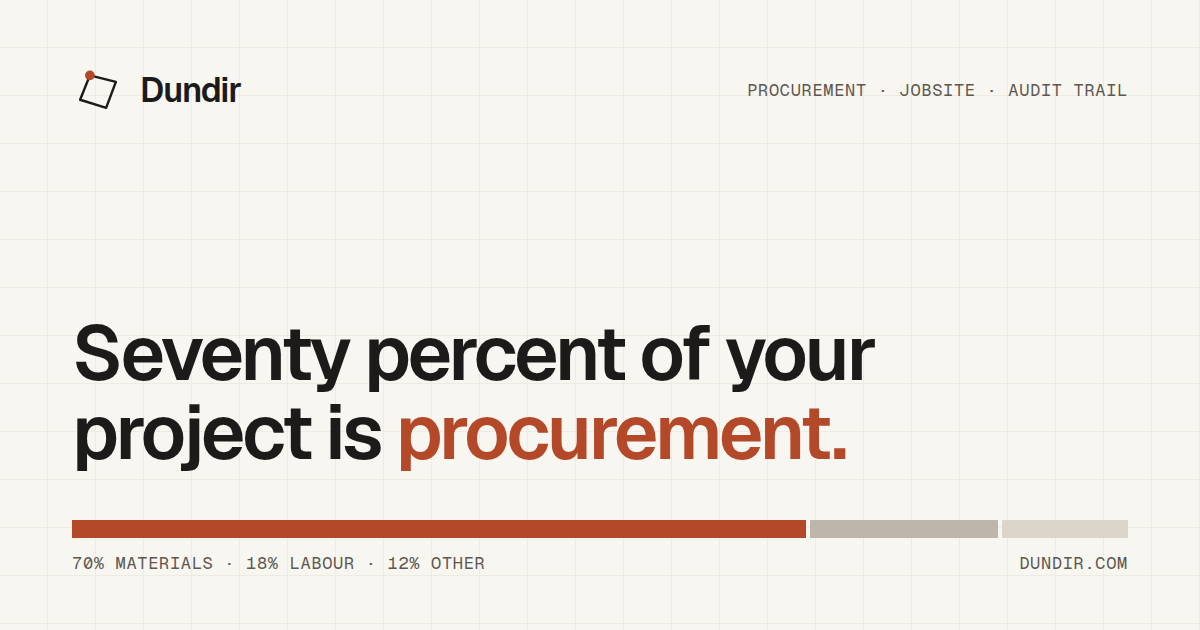
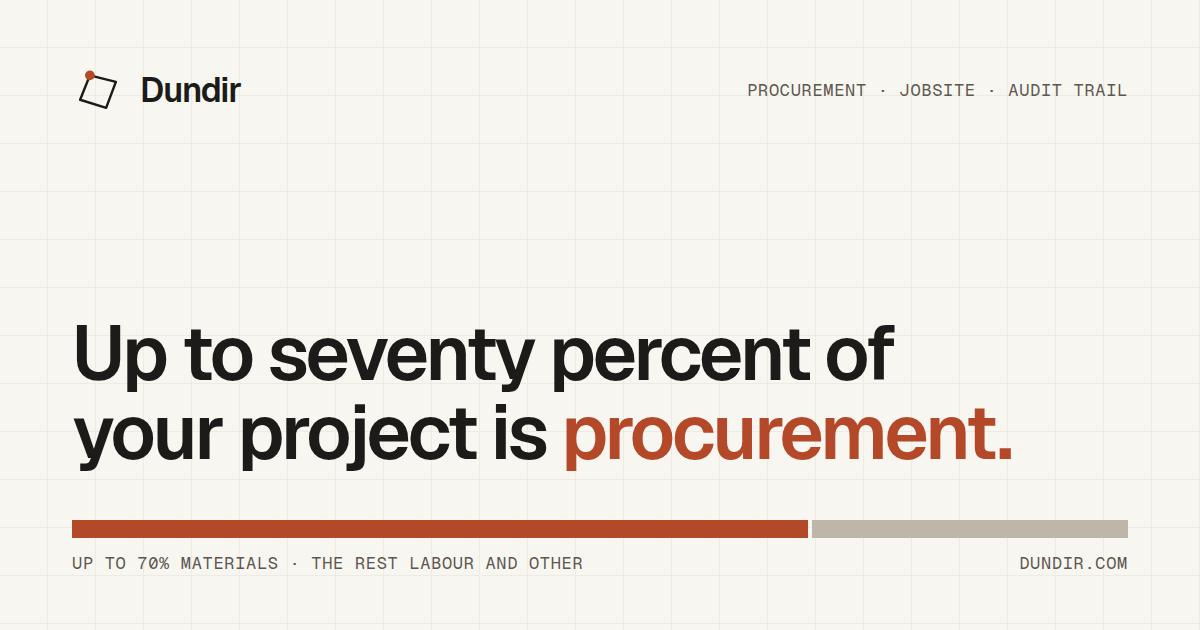
Say up to 70% and drop the unsourced 18/12 split (#33)
* Say up to 70% and drop the unsourced 18/12 split

Donyavi et al. 2024 (in Hamppi 2025) gives materials as up to 70% of project cost and nothing on labour or other costs. The hero headline, the cost stack, the problem lede, the og:image alt and the styleguide specimen now say up to; the stack shows materials against the rest instead of a 70/18/12 split.

* Render the share image with up to 70% and no 18/12 split

Changed region(s): [[0.0617, 0.5127, 0.8633, 0.754], [0.0617, 0.8746, 0.4933, 0.9048], [0.8325, 0.8143, 0.9558, 0.8746]]

diff --git a/assets/css/main.css b/assets/css/main.css
@@ -505,10 +505,8 @@ strong, b { font-weight: 700; }
 }
 .seg--material { background: var(--accent-fill); color: var(--on-accent); flex: 70; }
 .seg--material .seg__nm { color: var(--on-accent-soft); }
-.seg--labour { background: var(--neutral-fill); color: var(--on-neutral); flex: 18; }
-.seg--labour .seg__nm { color: var(--on-neutral-soft); }
-.seg--other { background: var(--rule); color: var(--fg-2); flex: 12; }
-.seg--other .seg__nm { color: var(--fg-3); }
+.seg--rest { background: var(--neutral-fill); color: var(--on-neutral); flex: 30; }
+.seg--rest .seg__nm { color: var(--on-neutral-soft); }
 
 /* page hero for inner pages: no stack, just the claim */
 .page-hero {

diff --git a/layouts/styleguide/single.html b/layouts/styleguide/single.html
@@ -156,7 +156,7 @@
       <div class="spec"><span>measure, Geist Mono 400</span><p class="d-mono">delivery ≤ 14 d &nbsp; budget ≤ € 412.000 &nbsp; 42 u mediaan</p></div>
     </div>
     <div class="axis-demo">
-      <output id="weight-out" style="--wt:600">Seventy percent is procurement.</output>
+      <output id="weight-out" style="--wt:600">Up to seventy percent is procurement.</output>
       <label for="weight">weight <input id="weight" type="range" min="300" max="700" step="10" value="600"> <span id="weight-val">600</span></label>
     </div>
   </div>

diff --git a/layouts/partials/head.html b/layouts/partials/head.html
@@ -44,7 +44,7 @@
   <meta property="og:image" content="https://www.dundir.com/og.png">
   <meta property="og:image:width" content="1200">
   <meta property="og:image:height" content="630">
-  <meta property="og:image:alt" content="Dundir: seventy percent of your project is procurement.">
+  <meta property="og:image:alt" content="Dundir: up to seventy percent of your project is procurement.">
   <meta name="twitter:card" content="summary_large_image">
   <meta property="og:locale" content="{{ .Site.LanguageCode }}">
 

diff --git a/content/_index.de.md b/content/_index.de.md
@@ -1,22 +1,19 @@
 ---
 title: Dundir
 description: KI-gestützte Beschaffungsentscheidungen und Baustellensysteme für die Bauwirtschaft, ausgelegt für den lokalen Betrieb und eine prüfbare Dokumentation. In Entwicklung mit Designpartnern.
-headline: Siebzig Prozent Ihres Projekts sind <span class="cut">Beschaffung.</span>
+headline: Bis zu siebzig Prozent Ihres Projekts sind <span class="cut">Beschaffung.</span>
 sub: Der Einheitspreis ist optimiert. Das ist selten das größte Problem. Wo ist das Material, wann kommt es an, und ist es zertifiziert? Dundir entwickelt einen mathematischen Beschaffungs-Solver und einen digitalen Zwilling der Baustelle.
 stack:
   label: Ein Euro Projektkosten, aufgeteilt
   source: Donyavi et al. 2024, in Hamppi 2025
-  alt: 'Aufteilung der Projektkosten: 70 Prozent Material, 18 Prozent Arbeit, 12 Prozent Sonstiges.'
+  alt: 'Aufteilung der Projektkosten: bis zu 70 Prozent Material, der Rest Arbeit und sonstige Kosten.'
   segments:
   - kind: material
-    pct: 70 %
+    pct: bis zu 70 %
     name: Material · hier rechnet und prüft Dundir
-  - kind: labour
-    pct: 18 %
-    name: Arbeit
-  - kind: other
-    pct: 12 %
-    name: Sonstiges
+  - kind: rest
+    pct: der Rest
+    name: Arbeit und Sonstiges
   footLeft: Beschaffung ist keine Backoffice-Funktion
   footRight: Sie ist die Kostenstruktur
 sections:

diff --git a/content/_index.en.md b/content/_index.en.md
@@ -2,22 +2,19 @@
 aliases: ["/en/"]
 title: Dundir
 description: AI-driven procurement decisions and jobsite systems for construction, designed for local deployment and an auditable trail. In development with design partners.
-headline: Seventy percent of your project is <span class="cut">procurement.</span>
+headline: Up to seventy percent of your project is <span class="cut">procurement.</span>
 sub: The unit price is optimized. That is rarely the biggest issue. Where is the material, when will it arrive, and is it certified? Dundir is building a mathematical procurement solver and a jobsite digital twin.
 stack:
   label: One euro of project cost, divided
   source: Donyavi et al. 2024, in Hamppi 2025
-  alt: 'Project cost split: 70 percent materials, 18 percent labour, 12 percent other.'
+  alt: 'Project cost split: up to 70 percent materials, the rest labour and other costs.'
   segments:
   - kind: material
-    pct: 70%
+    pct: up to 70%
     name: Materials · where Dundir computes and verifies
-  - kind: labour
-    pct: 18%
-    name: Labour
-  - kind: other
-    pct: 12%
-    name: Other
+  - kind: rest
+    pct: the rest
+    name: Labour and other
   footLeft: Procurement is not a back office function
   footRight: It is the cost structure
 sections:

diff --git a/content/_index.nl.md b/content/_index.nl.md
@@ -1,22 +1,19 @@
 ---
 title: Dundir
 description: AI-gedreven inkoopbeslissingen en bouwplaatssystemen, ontworpen voor lokale installatie en een controleerbaar auditspoor. In ontwikkeling met ontwerppartners.
-headline: Zeventig procent van uw project is <span class="cut">inkoop.</span>
+headline: Tot zeventig procent van uw project is <span class="cut">inkoop.</span>
 sub: De prijs is geoptimaliseerd. Dat is zelden het grootste probleem. Waar is het materiaal, wanneer komt het aan, en is het gecertificeerd? Dundir bouwt aan een wiskundige inkoop-solver en een digitale tweeling van uw bouwplaats.
 stack:
   label: Eén euro projectkosten, verdeeld
   source: Donyavi e.a. 2024, in Hamppi 2025
-  alt: 'Verdeling van projectkosten: 70 procent materiaal, 18 procent arbeid, 12 procent overig.'
+  alt: 'Verdeling van projectkosten: tot 70 procent materiaal, de rest arbeid en overige kosten.'
   segments:
   - kind: material
-    pct: 70%
+    pct: tot 70%
     name: Materiaal · hier rekent en toetst Dundir
-  - kind: labour
-    pct: 18%
-    name: Arbeid
-  - kind: other
-    pct: 12%
-    name: Overig
+  - kind: rest
+    pct: de rest
+    name: Arbeid en overig
   footLeft: Inkoop is geen backoffice-functie
   footRight: Het is de kostenstructuur
 sections:

diff --git a/DESIGN.md b/DESIGN.md
@@ -185,9 +185,11 @@ document: the mechanism, the honesty about the stage, the team.
 ### Signature: the cost stack
 
 The hero holds no photograph and no gradient. It holds one euro of project cost,
-divided: 70 percent material in menie, 18 percent labour in concrete, 12 percent
-other in zinc, labelled in mono, sourced under the bar. The material block carries
-the line "hier rekent Dundir".
+divided: up to 70 percent material in the accent, the rest (labour and other) in
+the neutral fill, labelled in mono, sourced above the bar. The source (Donyavi et
+al. 2024, in Hamppi 2025) gives only the material share, and as a ceiling, so the
+bar says "up to" and splits no further. The material block carries the line "hier
+rekent Dundir".
 
 It is the argument and the diagram at the same time, it costs no JavaScript, and it
 is the one object on the site that a reader will still remember in a week. It sits

diff --git a/content/het-probleem/index.en.md b/content/het-probleem/index.en.md
@@ -3,7 +3,7 @@ aliases: ["/en/the-problem/"]
 title: The problem
 description: Construction projects derail in procurement and at the gate, not on the blueprints. The real cost of manual paperwork, WhatsApp chaos, and missing audit records.
 slug: the-problem
-lede: Construction projects rarely fail because of structural calculations. They fail because 70% of project costs reside in materials, while procurement awards and gate deliveries are handled via spreadsheets, WhatsApp messages, and paper receipts.
+lede: Construction projects rarely fail because of structural calculations. They fail because up to 70% of project costs reside in materials, while procurement awards and gate deliveries are handled via spreadsheets, WhatsApp messages, and paper receipts.
 sections:
 - eyebrow: Historical disasters
   heading: When the supply chain fractures.

diff --git a/content/het-probleem/index.nl.md b/content/het-probleem/index.nl.md
@@ -1,7 +1,7 @@
 ---
 title: Het probleem
 description: Bouwprojecten ontsporen niet op de bouwtekening, maar in de inkoopketen en aan de poort. De rekeningen van handmatig werk, WhatsApp-chaos en ontbrekende documentatie.
-lede: Een bouwproject faalt zelden op constructieberekeningen. Het faalt omdat 70% van de projectkosten in materiaal zit, terwijl inkoopbeslissingen en poortcontroles worden afgehandeld met Excel, WhatsApp en papieren bonnen.
+lede: Een bouwproject faalt zelden op constructieberekeningen. Het faalt omdat tot 70% van de projectkosten in materiaal zit, terwijl inkoopbeslissingen en poortcontroles worden afgehandeld met Excel, WhatsApp en papieren bonnen.
 sections:
 - eyebrow: Historische lessen
   heading: Wanneer de keten breekt.

diff --git a/content/het-probleem/index.de.md b/content/het-probleem/index.de.md
@@ -2,7 +2,7 @@
 title: Das Problem
 description: Bauprojekte scheitern in der Beschaffung und am Tor, nicht an den Plänen. Die echten Kosten von Papierkram, WhatsApp-Chaos und fehlenden Prüfnachweisen.
 slug: das-problem
-lede: Bauprojekte scheitern selten an der Statik. Sie scheitern, weil 70 % der Projektkosten im Material liegen, während Vergaben und Anlieferungen am Tor über Tabellen, WhatsApp-Nachrichten und Papierbelege laufen.
+lede: Bauprojekte scheitern selten an der Statik. Sie scheitern, weil bis zu 70 % der Projektkosten im Material liegen, während Vergaben und Anlieferungen am Tor über Tabellen, WhatsApp-Nachrichten und Papierbelege laufen.
 sections:
 - eyebrow: Historische Fehlschläge
   heading: Wenn die Lieferkette bricht.
